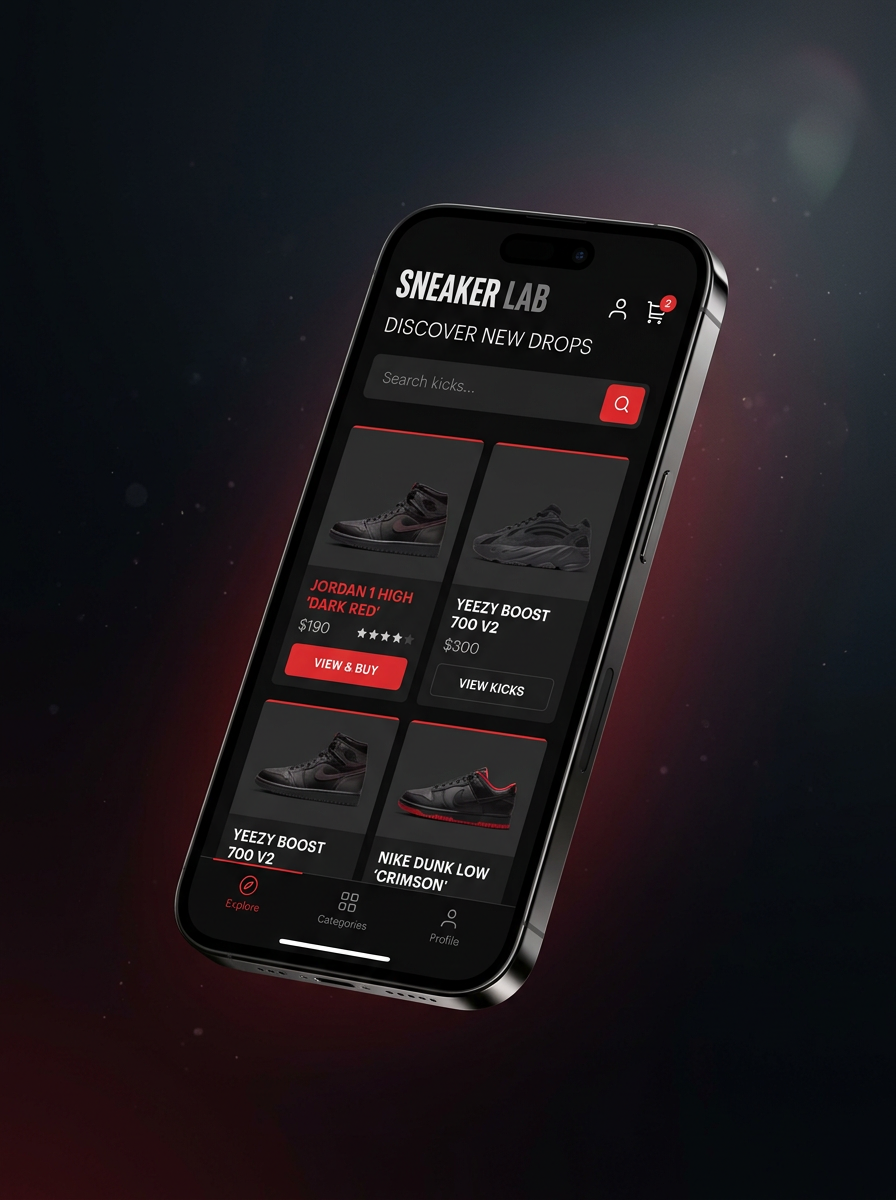
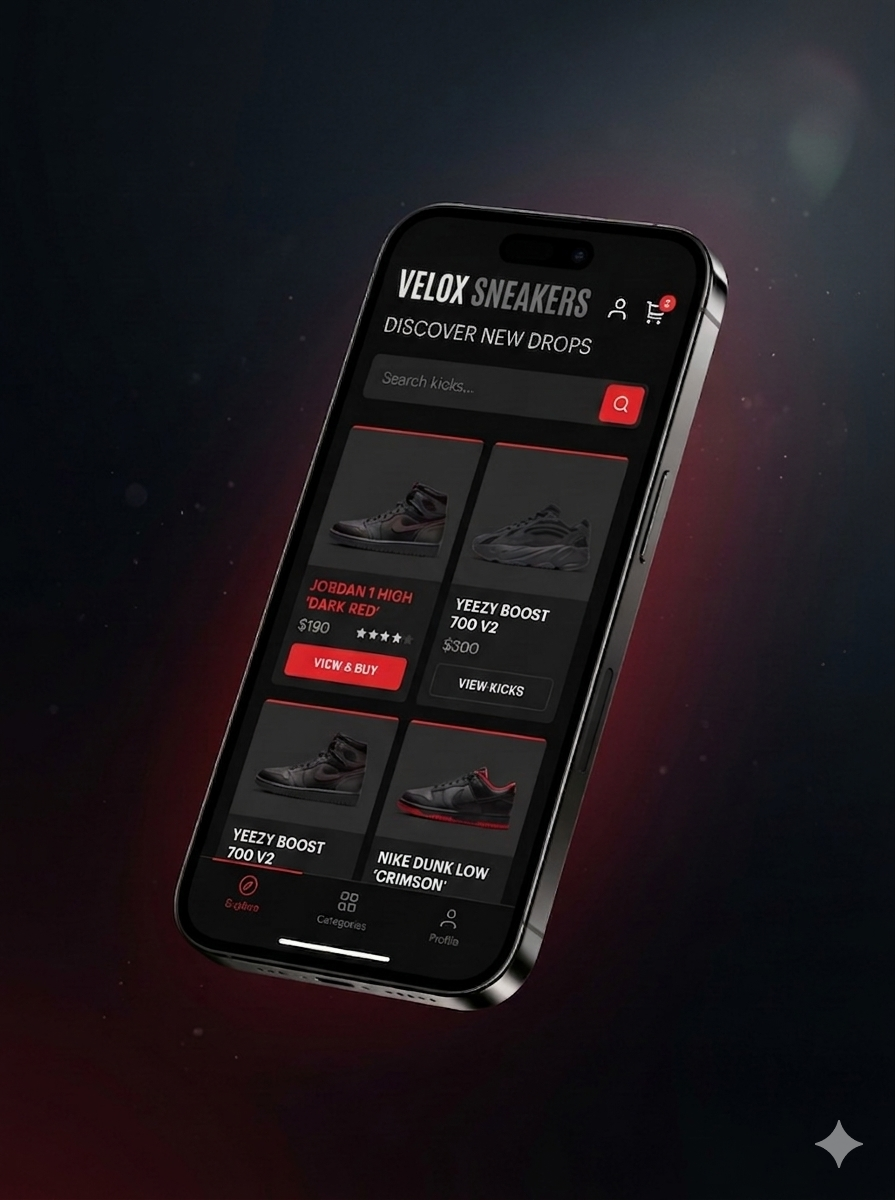
update all new

diff --git a/src/data/products.ts b/src/data/products.ts
@@ -29,7 +29,7 @@ export const featuredProducts: Product[] = [
     oldPrice: 240,
     rating: 4.9,
     reviews: 1284,
-    image: "/images/sneaker-1.jpg",
+    image: "https://i.pinimg.com/1200x/51/75/2b/51752b8ed096fe18f44692c8accd2d85.jpg",
     badge: "Best Seller",
     colors: ["#ef2b2b", "#ffffff", "#1a1a1a"],
   },
@@ -40,7 +40,7 @@ export const featuredProducts: Product[] = [
     price: 165,
     rating: 4.8,
     reviews: 932,
-    image: "/images/sneaker-2.jpg",
+    image: "https://i.pinimg.com/736x/39/64/4f/39644fb606011de17387e83d64755e2c.jpg",
     badge: "New",
     colors: ["#3b82f6", "#f97316", "#ffffff"],
   },
@@ -52,7 +52,7 @@ export const featuredProducts: Product[] = [
     oldPrice: 260,
     rating: 4.9,
     reviews: 745,
-    image: "/images/sneaker-3.jpg",
+    image: "https://i.pinimg.com/736x/8f/5a/df/8f5adf0a733ca02bde21088a18af4503.jpg",
     badge: "Premium",
     colors: ["#ef2b2b", "#1a1a1a"],
   },
@@ -63,7 +63,7 @@ export const featuredProducts: Product[] = [
     price: 145,
     rating: 4.7,
     reviews: 1518,
-    image: "/images/sneaker-4.jpg",
+    image: "https://i.pinimg.com/1200x/29/de/b1/29deb1d18b58b181f4f098c45b0f2986.jpg",
     colors: ["#ffffff", "#9ca3af", "#ef2b2b"],
   },
 ];
@@ -76,7 +76,7 @@ export const newArrivals: Product[] = [
     price: 210,
     rating: 5.0,
     reviews: 312,
-    image: "/images/sneaker-5.jpg",
+    image: "https://i.pinimg.com/736x/aa/47/49/aa474928705ee53d5d91540e50586481.jpg",
     badge: "Limited Edition",
     colors: ["#3b82f6", "#f97316"],
   },
@@ -87,7 +87,7 @@ export const newArrivals: Product[] = [
     price: 195,
     rating: 4.9,
     reviews: 428,
-    image: "/images/sneaker-6.jpg",
+    image: "https://i.pinimg.com/1200x/28/ae/99/28ae99c439f17da0ece43817daef3338.jpg",
     badge: "Limited Edition",
     colors: ["#1a1a1a", "#ef2b2b"],
   },
@@ -98,13 +98,13 @@ export const newArrivals: Product[] = [
     price: 189,
     rating: 4.9,
     reviews: 1284,
-    image: "/images/sneaker-1.jpg",
+    image: "https://i.pinimg.com/1200x/6d/44/99/6d4499b923fa1b6ba0151fd1676ed0db.jpg",
     badge: "Limited Edition",
     colors: ["#ef2b2b", "#ffffff"],
   },
   {
     id: 8,
-    name: "Velocity X1",
+    name: "Zeproc Zuan",
     category: "Lifestyle",
     price: 165,
     rating: 4.8,
@@ -124,7 +124,7 @@ export const bestSellers: Product[] = [
     oldPrice: 260,
     rating: 4.9,
     reviews: 745,
-    image: "/images/sneaker-3.jpg",
+    image: "https://i.pinimg.com/736x/8d/45/e1/8d45e168818fdc7f0adb2607ff69df12.jpg",
     badge: "-15%",
     colors: ["#ef2b2b", "#1a1a1a"],
   },
@@ -148,7 +148,7 @@ export const bestSellers: Product[] = [
     oldPrice: 250,
     rating: 5.0,
     reviews: 312,
-    image: "/images/sneaker-5.jpg",
+    image: "https://i.pinimg.com/1200x/b5/68/b3/b568b353bd187e53f9ec93a7ce34ab2f.jpg",
     badge: "-16%",
     colors: ["#3b82f6", "#f97316"],
   },
@@ -208,7 +208,7 @@ export const bestSellers: Product[] = [
     oldPrice: 180,
     rating: 4.7,
     reviews: 1518,
-    image: "/images/sneaker-4.jpg",
+    image: "https://i.pinimg.com/736x/ea/6b/17/ea6b172cff85229f1829482fc0f707bb.jpg",
     badge: "-19%",
     colors: ["#ffffff", "#9ca3af"],
   },
@@ -219,7 +219,7 @@ export const bestSellers: Product[] = [
     price: 245,
     rating: 4.9,
     reviews: 890,
-    image: "/images/sneaker-3.jpg",
+    image: "https://i.pinimg.com/1200x/f9/2e/ef/f92eefd1deed8f1298f81a0143e2b866.jpg",
     badge: "New",
     colors: ["#1a1a1a", "#ef2b2b", "#ffffff"],
   },
@@ -230,7 +230,7 @@ export const bestSellers: Product[] = [
     price: 175,
     rating: 4.6,
     reviews: 542,
-    image: "/images/sneaker-5.jpg",
+    image: "https://i.pinimg.com/1200x/76/cb/f6/76cbf6ef0b1a442e54bda4aeab5fa6b0.jpg",
     colors: ["#3b82f6", "#10b981"],
   },
   {
@@ -241,19 +241,9 @@ export const bestSellers: Product[] = [
     oldPrice: 220,
     rating: 4.8,
     reviews: 1102,
-    image: "/images/sneaker-1.jpg",
+    image: "https://i.pinimg.com/1200x/7a/01/ba/7a01baeeb4c3d09f6b237fedd5783b41.jpg",
     badge: "-13%",
     colors: ["#1a1a1a", "#374151"],
-  },
-  {
-    id: 20,
-    name: "Urban Nomad",
-    category: "Lifestyle",
-    price: 155,
-    rating: 4.7,
-    reviews: 675,
-    image: "/images/sneaker-2.jpg",
-    colors: ["#ffffff", "#f59e0b"],
   },
   {
     id: 21,
@@ -262,7 +252,7 @@ export const bestSellers: Product[] = [
     price: 280,
     rating: 5.0,
     reviews: 320,
-    image: "/images/sneaker-3.jpg",
+    image: "https://i.pinimg.com/1200x/ca/20/c6/ca20c67dbdfb5d2e61e58cda55d37c12.jpg",
     badge: "Limited Edition",
     colors: ["#ef2b2b", "#1a1a1a"],
   },
@@ -274,7 +264,7 @@ export const bestSellers: Product[] = [
     oldPrice: 150,
     rating: 4.5,
     reviews: 2104,
-    image: "/images/sneaker-4.jpg",
+    image: "https://down-id.img.susercontent.com/file/id-11134207-7ra0g-mbt26n4og2lv4e_tn",
     badge: "-15%",
     colors: ["#9ca3af", "#ffffff"],
   },

diff --git a/src/components/ui/ProductCard.tsx b/src/components/ui/ProductCard.tsx
@@ -37,8 +37,8 @@ export default function ProductCard({ product, index = 0, isFavoritePage = false
             {product.badge}
           </span>
         )}
-        {discount > 0 && (
-          <span className="absolute right-4 top-4 z-20 rounded-full bg-white/10 px-2.5 py-1 text-[10px] font-bold text-white backdrop-blur">
+        {discount > 0 && !product.badge?.includes("-") && (
+          <span className="absolute left-2 top-10 sm:left-4 sm:top-12 z-20 rounded-full bg-white/10 px-2.5 py-1 text-[10px] font-bold text-white backdrop-blur">
             -{discount}%
           </span>
         )}
@@ -49,11 +49,11 @@ export default function ProductCard({ product, index = 0, isFavoritePage = false
             e.preventDefault();
             toggleFavorite(product.id);
           }}
-          className={`absolute bottom-4 right-4 z-20 flex h-10 w-10 items-center justify-center rounded-full glass-strong transition-all hover:scale-110 ${
+          className={`absolute top-2 right-2 sm:top-auto sm:bottom-4 sm:right-4 z-20 flex h-8 w-8 sm:h-10 sm:w-10 items-center justify-center rounded-full glass-strong transition-all hover:scale-110 ${
             isFavorite ? "text-crimson" : "text-white/70 hover:text-crimson"
           }`}
         >
-          <Heart size={17} className={isFavorite ? "fill-crimson" : ""} />
+          <Heart size={16} className={`sm:w-[17px] sm:h-[17px] ${isFavorite ? "fill-crimson" : ""}`} />
         </button>
 
         {/* Quick view overlay */}
@@ -78,18 +78,18 @@ export default function ProductCard({ product, index = 0, isFavoritePage = false
       </div>
 
       {/* Body */}
-      <div className="flex flex-1 flex-col p-5">
-        <div className="flex items-center justify-between">
-          <span className="text-[11px] font-medium uppercase tracking-wider text-crimson">
+      <div className="flex flex-1 flex-col p-3 sm:p-5">
+        <div className="flex flex-col sm:flex-row sm:items-center justify-between gap-1 sm:gap-0">
+          <span className="text-[9px] sm:text-[11px] font-medium uppercase tracking-wider text-crimson line-clamp-1">
             {product.category}
           </span>
-          <div className="flex items-center gap-1.5">
+          <div className="flex items-center gap-1 sm:gap-1.5">
             <StarRating rating={product.rating} />
-            <span className="text-xs text-white/40">({product.reviews})</span>
+            <span className="text-[10px] sm:text-xs text-white/40">({product.reviews})</span>
           </div>
         </div>
 
-        <h3 className="mt-2 text-lg font-semibold text-white">{product.name}</h3>
+        <h3 className="mt-1.5 sm:mt-2 text-sm sm:text-lg font-semibold text-white line-clamp-1">{product.name}</h3>
 
         {/* Colors */}
         <div className="mt-3 flex items-center gap-1.5">
@@ -102,11 +102,11 @@ export default function ProductCard({ product, index = 0, isFavoritePage = false
           ))}
         </div>
 
-        <div className="mt-4 flex items-end justify-between gap-2">
-          <div className="flex flex-col gap-0.5">
-            <span className="text-base sm:text-lg font-bold text-white leading-none">{formatPrice(product.price)}</span>
+        <div className="mt-auto pt-3 sm:pt-4 flex flex-col sm:flex-row sm:items-end justify-between gap-2">
+          <div className="flex flex-col justify-end gap-0.5 min-h-[32px] sm:min-h-[40px]">
+            <span className="text-sm sm:text-lg font-bold text-white leading-none">{formatPrice(product.price)}</span>
             {product.oldPrice && (
-              <span className="text-[10px] sm:text-xs text-white/40 line-through leading-none">{formatPrice(product.oldPrice)}</span>
+              <span className="text-[9px] sm:text-xs text-white/40 line-through leading-none">{formatPrice(product.oldPrice)}</span>
             )}
           </div>
           <button
@@ -117,12 +117,12 @@ export default function ProductCard({ product, index = 0, isFavoritePage = false
                 toggleFavorite(product.id);
               }
             }}
-            className={`flex-shrink-0 flex items-center gap-1.5 rounded-full px-3 sm:px-4 py-2 text-xs font-semibold text-white transition-all hover:scale-105 shadow-md ${
+            className={`flex-shrink-0 flex items-center justify-center gap-1 sm:gap-1.5 rounded-full px-3 py-1.5 sm:px-4 sm:py-2 text-[10px] sm:text-xs font-semibold text-white transition-all hover:scale-105 shadow-md w-full sm:w-auto ${
               isFavoritePage ? "bg-white/10 hover:bg-crimson border border-white/20" : "bg-crimson hover:bg-crimson-deep"
             }`}
           >
-            <ShoppingCart size={14} /> 
-            {isFavoritePage ? "Move to Cart" : "Add"}
+            <ShoppingCart size={12} className="sm:w-[14px] sm:h-[14px]" /> 
+            <span className="sm:inline">{isFavoritePage ? "Move to Cart" : "Add"}</span>
           </button>
         </div>
       </div>

diff --git a/src/components/BestSellers.tsx b/src/components/BestSellers.tsx
@@ -68,7 +68,7 @@ export default function AllProducts() {
           ))}
         </div>
 
-        <div className="mt-12 grid grid-cols-1 gap-6 sm:grid-cols-2 lg:grid-cols-4">
+        <div className="mt-12 grid grid-cols-2 gap-3 sm:gap-6 lg:grid-cols-4">
           {filteredProducts.map((p, i) => (
             <ProductCard key={p.id} product={p} index={i} />
           ))}

diff --git a/src/components/FeaturedCollection.tsx b/src/components/FeaturedCollection.tsx
@@ -17,7 +17,7 @@ export default function FeaturedCollection() {
           />
         </div>
 
-        <div className="mt-12 grid grid-cols-1 gap-6 sm:grid-cols-2 lg:grid-cols-4">
+        <div className="mt-12 grid grid-cols-2 gap-3 sm:gap-6 lg:grid-cols-4">
           {featuredProducts.slice(0, 4).map((p, i) => (
             <ProductCard key={p.id} product={p} index={i} />
           ))}